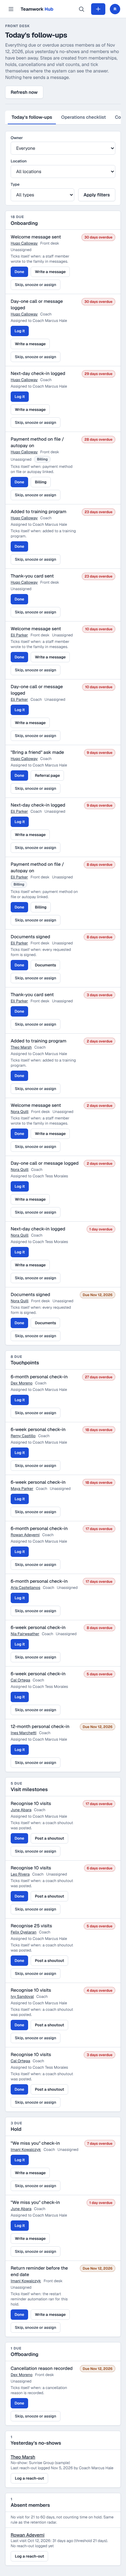
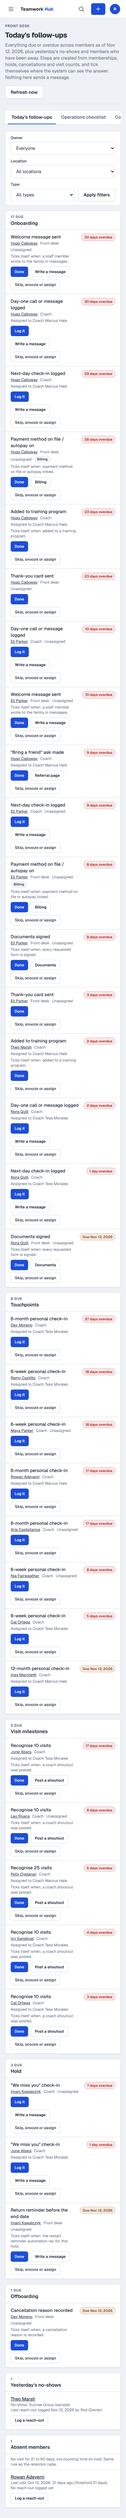
Member journey: docs, FEATURE_MATRIX rows, seed keeps the coach directory test stable, refreshed screenshots
Claude-Session: https://claude.ai/code/session_0111wQ3V8ZifpxxW9YQzxm4u

diff --git a/teamwork-hub/scripts/seed/journey.ts b/teamwork-hub/scripts/seed/journey.ts
@@ -113,7 +113,7 @@ export async function seedJourney(ctx: SeedCtx) {
   for (let d = -38; d <= -2; d += 3) await book(ivy.athleteId, d, "attended");
   await book(ivy.athleteId, 1, "booked");
   await signForm(ivy);
-  await tx.insert(coachAssignments).values({ orgId, coachUserId: ctx.users.marcus, athleteId: ivy.athleteId });
+  await tx.insert(coachAssignments).values({ orgId, coachUserId: ctx.users.tess, athleteId: ivy.athleteId });
 
   // 4. Six-week check-in five days overdue.
   const cal = await member("cal", "Cal", "Ortega", 47);
@@ -130,7 +130,7 @@ export async function seedJourney(ctx: SeedCtx) {
   await book(remy.athleteId, 1, "booked");
   await signForm(remy);
   await card(remy.payerId);
-  await tx.insert(coachAssignments).values({ orgId, coachUserId: ctx.users.marcus, athleteId: remy.athleteId });
+  await tx.insert(coachAssignments).values({ orgId, coachUserId: ctx.users.tess, athleteId: remy.athleteId });
   await tx.insert(sessionFeedback).values({ orgId, bookingId: lastRemy!.booking.id, sessionId: lastRemy!.session.id, athleteId: remy.athleteId, rating: 5, submittedByUserId: ctx.users.alex, submittedByRole: "guardian", createdAt: at(-3, "19:00"), isDemo: true });
 
   // 6. Twenty-fifth visit eight days ago, already recognised with a shoutout.
@@ -145,12 +145,12 @@ export async function seedJourney(ctx: SeedCtx) {
   const june = await member("june", "June", "Abara", 150, { status: "on_hold" });
   for (let d = -60; d <= -12; d += 4) await book(june.athleteId, d, "attended");
   await tx.insert(membershipHolds).values({ membershipId: june.membershipId, startDate: day(-10), endDate: day(8), reason: "Family travel (sample)", requestedOn: day(-12), requestChannel: "email", createdBy: ctx.users.erin });
-  await tx.insert(coachAssignments).values({ orgId, coachUserId: ctx.users.marcus, athleteId: june.athleteId });
+  await tx.insert(coachAssignments).values({ orgId, coachUserId: ctx.users.tess, athleteId: june.athleteId });
 
   // 8. Cancellation scheduled for ten days from now, no reason recorded yet.
   const dex = await member("dex", "Dex", "Moreno", 210, { cancelAt: day(10) });
   for (let d = -40; d <= -9; d += 5) await book(dex.athleteId, d, "attended");
-  await tx.insert(coachAssignments).values({ orgId, coachUserId: ctx.users.marcus, athleteId: dex.athleteId });
+  await tx.insert(coachAssignments).values({ orgId, coachUserId: ctx.users.tess, athleteId: dex.athleteId });
 
   const ids = [nora, theo, ivy, cal, remy, sage, june, dex].map((m) => m.athleteId);
   await syncJourneys(tx, orgId, { today: T, now, athleteIds: ids });

diff --git a/teamwork-hub/docs/modules/journey.md b/teamwork-hub/docs/modules/journey.md
@@ -1,0 +1,153 @@
+# Member journey
+
+Replaces the spreadsheets of checkboxes: an onboarding checklist per new member, scheduled check-in touchpoints, visit milestones, review and referral asks, a hold checklist, an offboarding checklist, a daily / weekly operations checklist and a per-coach weekly scorecard. Steps are created from real events and tick themselves off where the system already knows the answer.
+
+Code in `src/lib/journey/*.ts`, schema in `src/db/schema/journey.ts`, tests in `tests/journey*.test.ts`, browser test `e2e/journey.spec.ts`, seed `scripts/seed/journey.ts`.
+
+**Nothing in this module sends a message to anyone.** Steps that involve a message link to the normal compose page (`/messages/new?athlete=…`), which stays test-only without a provider. A step is finished by a staff member logging it or by a detectable event.
+
+| Screen | Path | Who |
+|---|---|---|
+| Today's follow-ups (queue, no-shows, absent members) | `/follow-ups`, and a card on the staff and coach dashboards (`/today`) | owner, admin, operations; coaches for assigned athletes only, never billing steps |
+| Journey panel | card "Member journey" on the staff person page (`/people/[personId]`) | same as above |
+| Operations checklist | `/follow-ups/checklist` | all staff (tick); owner, admin edit the list |
+| Coach weekly scorecard | `/follow-ups/scorecard` | coaches and operations see their own; owner, admin see every coach |
+| Journey report | `/follow-ups/report` | owner, admin |
+| Templates, timing, targets, checklist items | Settings → Member journey (`/settings/journey`) | owner, admin |
+| Nightly job | Settings → Scheduled jobs, "Member journey" (`journey.sync.nightly`) | owner, admin |
+
+Capabilities (in `src/lib/authz/policy.ts`): `journey.view` (all staff), `journey.billing_steps` (owner, admin, operations), `journey.report` (owner, admin), `ops_checklist.use` (all staff). Editing templates and the checklist list uses `settings.manage`.
+
+## How it reuses what exists
+
+- **Tasks.** A journey step IS a row in the existing `tasks` table (`source = 'journey'`): status, assignee, due time and completion live there. `journey_steps` (1:1, keyed by the task id) only adds what a plain task cannot hold: the checklist it belongs to, the auto-complete rule, the facility-local due date, snooze date, skip reason, outcome. Skip = the task is `cancelled` with a reason on the step. Journey tasks show on People → Tasks once they have an assignee; the generic "open tasks" list on the person page leaves them out because the journey panel shows them (and a coach must not see the billing ones there).
+- **Milestones.** The "recognise this" step for N visits uses the same task dedupe key as "Create shoutout task" on Milestones this week (`milestone:<athleteId>:sessions:<N>`). Whichever comes first, there is one task: the journey adopts an existing shoutout task, and the card's button becomes a no-op. The step ticks itself when a coach shoutout is posted on or after the day the count was reached, so recognition goes through the existing shoutout → TV board → XP path. The journey adds 10, 500, 750 and 1000 to the counts the dashboard card lists; the card itself is unchanged.
+- **Retention radar.** "Absent members" is the radar's own "No recent visit" signal (so members on hold are skipped and both screens agree). Review asks are held back using the radar's level and its payment signal.
+- **Win-back list.** Completing "Win-back date set" creates a normal task for that date ("Winback outreach: …"), which the existing win-back list shows as the member's last task.
+- **Notes.** Steps that record a conversation, and "Log a reach-out", write a staff note on the person (category `reach_out` or `check_in`, visibility "assigned coaches").
+- **Settings.** Templates, timing numbers and scorecard targets are stored in `organizations.settings.journey`; every save is audited.
+
+## Templates
+
+Six checklists. Every step has a name, an owner role (Owner, Front desk, Coach), a due offset (days, weeks or calendar months; hold steps may count from the hold's start, midpoint or end), an optional auto-complete rule from the fixed list below, an "in use" switch and a "billing step" flag. Steps can be added. **Every default is a starting point and is labelled "Default" on the settings page until edited**; none is a Teamwork policy. Journeys already under way keep the steps they began with.
+
+| Checklist | Starts when | Default steps (auto = ticks itself) |
+|---|---|---|
+| Onboarding | a membership or trial begins (within the last `backfillDays`) | welcome message sent (auto: staff wrote in Messages), documents signed (auto), payment method on file / autopay on (auto, billing), first session booked (auto), first session attended (auto), assigned coach set (auto), added to training program (auto), day-one call or message logged, next-day check-in logged, thank-you card sent, "bring a friend" ask made (links to the referral page) |
+| Touchpoints | the start of the member's current stint | personal check-ins at 6 weeks, 6, 12, 18 and 24 months; a goal review at 12 weeks (links to the athlete's performance page, where staff manage goals). Each needs a short note |
+| Visit milestones | a visit count is reached | "Recognise N visits" for 10, 25, 50, 100, 250, 500, 750, 1000 (auto: a shoutout is posted) |
+| Review and referral asks | a positive moment (see below) | ask for a review (asked / reviewed / declined), ask for a referral (asked / referred / declined). No review site is contacted |
+| Hold | a hold is recorded (running, or starting within the look-ahead) | reason recorded (auto), return date set (auto), "we miss you" check-in at the midpoint, return reminder 7 days before the end (auto: the existing `membership_restart_upcoming` automation ran for this hold) |
+| Offboarding | a cancellation is processed (cancelled, or a cancel date is set, on a regular plan, and nothing else continues) | reason recorded (auto), save conversation logged, final bill settled (auto, billing), removed from training program and groups (auto), thank-you sent, exit survey answered, win-back date set |
+
+### Auto-complete rules
+
+| Rule | True when |
+|---|---|
+| A staff member wrote to the family in Messages | a staff-written message (not an internal note, automation or campaign) in a thread about the athlete since the journey began |
+| Every requested form is signed | at least one form request is completed and none is pending |
+| Payment method on file or autopay linked | the payer has a stored payment method, or the membership has a provider subscription |
+| A session is booked / was attended | a live booking / an attended booking for a session from two weeks before the journey start (a trial session before the start date counts) |
+| An assigned coach is set | a current coach assignment, direct or through a group |
+| Added to a training program | an active program assignment, direct or through a group |
+| A coach shoutout was posted | a shoutout that is still posted, dated on or after the day the count was reached |
+| The hold has a reason / a return date | the hold row has them |
+| The restart reminder automation ran | a finished `automation.dispatch` job for this hold |
+| A cancellation reason is recorded | the membership's cancel reason, or a "lost" entry with a reason in the save log |
+| No open invoice is left on the membership | no invoice with status open for that membership |
+| No active program and no group membership | both are gone |
+
+An automatic tick is stamped with the time of the event when the system knows it (for example the session's start), has no "completed by", is marked "Ticked automatically", and writes an audit event (`journey.step_auto_complete`, actor system). Staff can still tick any step by hand.
+
+Not automatic, and why: the **exit survey** is logged by staff with a note. The session-feedback machinery is one response per attended booking, so it does not fit a survey for someone who has left; no survey form is sent.
+
+## Generation
+
+`syncJourneys(tx, orgId, { today, now, athleteIds? })` in `src/lib/journey/sync.ts` is the only generator. It runs:
+
+- nightly as `journey.sync.nightly` (registered in `src/lib/scheduled/jobs.ts`, one job per organization and local date, Run now on Settings → Scheduled jobs);
+- when `/follow-ups` is opened and from its "Refresh now" button (whole organization);
+- when a person page is opened (that athlete only).
+
+So nothing waits for a worker (none is deployed yet).
+
+**Idempotent.** Journeys are unique per `(org, anchor key)` (`onboarding:<membershipId>`, `hold:<holdId>`, `offboarding:<membershipId>`, `touchpoints:<membershipId>`, `visit_milestones:<athleteId>`, `review_referral:<athleteId>`), steps per `(journey, step key)`, tasks per `(org, dedupe key)`, and a pass holds a per-organization advisory lock. Running it twice, or three at once, creates nothing new (tested).
+
+**No backlog.** Nothing whose date is more than `backfillDays` (default 30) in the past is generated, so a three-year member does not get an onboarding checklist or five overdue touchpoints on the first run. The cost: if nothing runs the generator for longer than that, steps that fell in the gap are never created and are not in the report.
+
+**Stints.** Touchpoints count from the membership that began the member's current stint. A plan change is the same stint; coming back more than 30 days after the last membership ended starts a new one (onboarding again, touchpoints restart).
+
+**Touchpoints are created `lookaheadDays` (default 14) before they are due.** Later ones are shown under "Upcoming touchpoints" on the profile panel, computed from the template and not stored.
+
+**Closing.** If a hold is removed, or a cancellation is withdrawn, the checklist is closed and its open steps are cancelled with that reason. If a hold's dates change, its open steps follow. A one-off checklist is marked completed when no step is open; its completion time is when the last step was finished or skipped.
+
+Coach-owned steps are assigned to the athlete's directly assigned coach when there is one; everything else starts unassigned.
+
+## Dates, and what a hold does to touchpoints
+
+All due dates are facility-local calendar dates (`journey_steps.due_on`); the task's `due_at` is the end of that local day. "Today" is the facility's date, not UTC. Months are calendar months clamped to the end of the month (Aug 31 + 6 months = Feb 28 or 29); weeks and days are plain day counts.
+
+**Decision: touchpoints do not pause for a hold, but they are not asked for during one.** Tenure keeps counting through a hold, as membership anniversaries already do, so a 30-day hold does not push every later check-in out by 30 days. A check-in whose date falls inside a hold moves to `holdGraceDays` (default 7) after that hold ends, and moves back if the hold is removed; the original date is kept and shown ("Moved from … for a hold"). The hold checklist has its own mid-hold check-in. Onboarding dates do not move.
+
+## Review and referral asks
+
+Suggested **once per member**, when both are true: a positive moment in the last `positiveMomentDays` (default 14), meaning a visit milestone was reached or a 5-star session rating was left; and the member is not at risk on the retention radar and not past due (membership status, a failed payment, or an overdue invoice). If the member is at risk or past due at that moment nothing is created; if they recover while the moment is still recent the ask appears then. An ask that is already open is hidden from the queue for as long as the member is at risk or past due, and returns afterwards.
+
+## Queue, panel and actions
+
+- **Queue**: every open step due today or earlier that is not snoozed or held back, grouped by checklist, filterable by owner (me, unassigned, a role, a staff member), location (a membership or its product covers the location) and type. Beside it: yesterday's no-shows and absent members, each with "Log a reach-out".
+- **Absent window**: at least `attendanceGapDays` from the membership policy (21) and at most `absentMaxDays` (default 60) without a visit, not counting time on hold.
+- **Actions**: one-tap Done (a short form instead when the step records a conversation, an outcome or a date), skip with a reason (required), snooze 1 to 60 days (hides the step; the due date does not change, so it still counts as late), assign. Each action re-checks organization, coach scope and billing visibility on the server and writes an audit event (`journey.step_complete`, `journey.step_skip`, `journey.step_snooze`, `journey.step_assign`, `journey.reach_out_log`).
+- **Coaches** see only steps for athletes assigned to them (directly or through a group) and never steps flagged billing. A billing step cannot be assigned to a coach; a step cannot be assigned to a coach who is not assigned to the athlete; a coach can only assign a step to themselves.
+
+## Operations checklist
+
+`ops_checklist_items` (section opening / closing / cleaning / weekly, label, order, optional location; no location = every location) and `ops_checklist_ticks` (item, local date, who). One tick per item per day; weekly items are stored on the Monday and ticked once per week. Staff can tick today or yesterday (a closing list is often finished after midnight). Only the person who ticked, or an owner or admin, can untick. The month grid shows daily items done out of the total per day, and weekly items per week. Kept small on purpose: no per-shift assignment, no photos, no history of list edits beyond the audit log. The month grid uses the items that are active now, so past days are not re-based when the list changes. An item for "every location" is ticked once for all locations. The sample starter list is invented wording and is only added when an owner or admin asks for it.
+
+## Coach weekly scorecard
+
+Week = Monday to Sunday, facility time. Computed, never stored:
+
+| Number | How |
+|---|---|
+| Session utilisation | live bookings (booked, attended, no-show) ÷ capacity over the coach's non-cancelled sessions that started in the week |
+| Client reach-outs logged | staff notes of category `reach_out` or `check_in` the coach wrote in the week |
+| Client meetings / assessments held | the coach's sessions of service kind Assessment in the week with at least one attended booking |
+| Touchpoints on time | touchpoint steps due in the week that are assigned to the coach or were completed by them: done on or before the due date ÷ all that were due (skipped ones excluded) |
+
+A rate with nothing to divide by is shown as "—", not 0. Targets are organization-wide and editable (defaults 70%, 10, 3, 90%: starting points, not standards). The reflection (what went well, what is stuck, what help is needed) is stored in `coach_reflections`, one per coach per week; a coach writes only their own; owner and admin can read it; the text is not copied into the audit log.
+
+## Reporting
+
+`src/lib/journey/reports.ts`, by facility-local month, last six months:
+
+- `onboardingCompletionByMonth(tx, orgId, { today, tz, months })`: started, completed, closed, in progress, completion rate, average days to complete, by the month onboarding started.
+- `touchpointTimelinessByMonth(...)`: due, on time, done late, still overdue, skipped, on-time percent, by the month due.
+- `milestoneRecognitionByMonth(...)`: reached, recognised, missed (skipped, or open after the due date), waiting, recognised percent, by the month due.
+- `journeyCompletionReport(tx, viewer)`: the three together, limited to `journey.report`.
+
+The three `...ByMonth` functions take an organization id and no viewer, so another page (for example the owner scoreboard being built separately at `/scoreboard`, which this module does not touch) can call them after its own permission check. `coachScorecards(tx, viewer, { weekStart })` is available the same way for owner and admin viewers.
+
+## Assumptions to confirm
+
+- "Absent in the retention module's actionable window" was read as the radar's "No recent visit" signal with an upper bound of 60 days (editable). There is no window by that name in the retention module.
+- "The existing hold reminder" was read as the `membership_restart_upcoming` automation. If that rule is not enabled the return-reminder step simply stays open for staff.
+- "Client meetings / assessments" counts sessions of kind Assessment only. Private sessions are not counted as meetings.
+- Operations (front desk) can see and act on billing steps, cannot open the journey report, and sees only their own scorecard.
+- The owner role label "Front desk" maps to the operations role. Owner role on a step is a label and a filter; it does not restrict who may tick the step beyond the scope rules above.
+- A scheduled cancellation starts offboarding on the day it was scheduled (the first cancel event), not on the last day.
+- "Final bill settled" is true as soon as no open invoice is attached to that membership, which can be immediately.
+- Scorecard targets are the same for every coach.
+
+## Not done
+
+- No per-coach targets, no scorecard history export, no CSV for the journey report.
+- No exit survey form sent to families; it is a staff-logged step.
+- Template edits do not change journeys already under way, and there is no "add this new step to everyone" action.
+- Location filter on the queue is by membership / product location scope; an athlete with no location scope matches every location.
+- The dashboard card reads the queue without running the generator; the queue page and the person page run it.
+- No worker is deployed, so the nightly job has only run in tests and through Run now.
+
+## Demo data
+
+`scripts/seed/journey.ts` adds eight synthetic members with invented names (brand new; nearly through onboarding with a no-show yesterday; a six-week check-in due in three days; one five days overdue; a tenth visit waiting to be recognised plus a 5-star rating; a 25th visit already recognised; on hold; cancellation scheduled), runs the real generator for those members only, ticks a few steps as staff, and adds a sample operations checklist with ticks and one coach reflection. Opening `/follow-ups` then generates for the rest of the demo organization.

diff --git a/teamwork-hub/FEATURE_MATRIX.md b/teamwork-hub/FEATURE_MATRIX.md
@@ -175,6 +175,22 @@ Security review: see `docs/SECURITY-REVIEW.md` (10 findings fixed with regressio
 | Low rating → staff task "Follow up on session feedback" (no comment, rating or name in the task; not linked to the athlete unless shared with the coach) | verified locally | `retention-feedback.test.ts` | Unshared follow-ups go to the first owner login |
 | Milestones this week on the staff dashboard (anniversaries, 25/50/100/250 sessions, birthdays staff-only, first 30 days) with "Create shoutout task"; facility-timezone math | verified locally | `retention-milestones-reports.test.ts` | Shown on the owner/admin/operations dashboard only; no automatic messages by design |
 | Winback list (`/people/retention/winback`): ended in the last 12 months with end reason, last plan, tenure; follow-up task only | verified locally | `retention-milestones-reports.test.ts` | End reason is only as good as the cancellation reason or logged loss |
+## Member journey (replaces the coaching program's checkbox spreadsheets; see `docs/modules/journey.md`)
+
+| Feature | Status | Test evidence | Gaps |
+|---|---|---|---|
+| Journey templates (Settings → Member journey): onboarding, touchpoints, visit milestones, review and referral asks, hold, offboarding; each step has a name, owner role, due offset, optional auto-complete rule from a fixed list; editable, defaults labelled "Default"; stored in `organizations.settings.journey`, audited | verified locally | `journey-pure.test.ts`, `journey.test.ts` (edit, custom step, reset, coach refused), e2e `journey.spec.ts`, a11y on `/settings/journey` | Edits apply to journeys that start afterwards. Defaults are starting points, not policy |
+| Generator `syncJourneys`: steps created from memberships, holds, cancellations, visit counts and 5-star feedback; idempotent (unique anchor, step and task keys plus an advisory lock); nightly job `journey.sync.nightly` with Run now; also run by the follow-ups page and the profile panel | verified locally | `journey.test.ts` (twice and three at once create nothing; job registered; long-standing member gets no backlog; nothing sent), `scheduled-jobs.test.ts` | No worker deployed. Nothing older than 30 days (editable) is generated, so a gap longer than that loses steps |
+| Auto-completion for 14 detectable events (staff message, documents signed, payment method, first session booked / attended, coach assigned, program assigned, shoutout posted, hold reason / return date / restart reminder, cancel reason, final bill settled, removed from program and groups), audited as system | verified locally | `journey-pure.test.ts` (every rule), `journey.test.ts` (each against real rows) | Exit survey is staff-logged (session feedback is per booking and does not fit). The hold reminder ticks only if the restart automation rule is enabled |
+| Journey steps are rows in the existing `tasks` table with a 1:1 `journey_steps` extension; visit-milestone steps share the dedupe key of the Milestones "Create shoutout task" (adopted, never duplicated); win-back step creates the task the win-back list shows | verified locally | `journey.test.ts` | Journey tasks appear on People → Tasks only once assigned |
+| Due dates in facility-local dates (calendar months clamped, DST-safe); a touchpoint that falls inside a hold moves to 7 days after the hold ends and back if the hold is removed; tenure is not stretched by a hold | verified locally | `journey-pure.test.ts`, `journey.test.ts` (UTC vs facility day, hold added later, member already on hold) | Decision documented in `docs/modules/journey.md`; grace days editable |
+| Review and referral asks: suggested once after a visit milestone or 5-star rating; never while at risk or past due; an open ask is hidden while the member is at risk or past due; asked / reviewed / referred / declined recorded | verified locally | `journey.test.ts` (healthy, past due, at risk, becomes past due later, outcomes) | No review-site integration (by design) |
+| Per-member journey panel on the staff person page: onboarding progress, upcoming touchpoints, milestones and whether each was recognised; one-tap complete, skip with reason, snooze, assign; all audited | verified locally | `journey.test.ts`, e2e `journey.spec.ts` (desktop + 390px), a11y person detail page | Opening the page runs the generator for that athlete (a write on a page view, as engagement does) |
+| Today's follow-ups (`/follow-ups` and a dashboard card): due and overdue steps grouped by type, filter by owner, location and type, assignable; yesterday's no-shows and absent members with "Log a reach-out" | verified locally | `journey.test.ts` (scope per role, billing steps hidden from coaches, other org, assignment rules, snooze, no-show and absent lists), e2e, a11y, CSP sweep (owner 150 pages, coach 125, desktop) | Absent window = radar "No recent visit" up to 60 days (assumption). Queue capped at 500 rows |
+| Operations checklist (`/follow-ups/checklist`): opening / closing / cleaning / weekly items per location, ticked per facility-local day by any staff, month grid | verified locally | `journey-ops.test.ts`, e2e, a11y | Deliberately small. Month grid uses the currently active items. Sample list is invented wording |
+| Coach weekly scorecard (`/follow-ups/scorecard`): utilisation, reach-outs logged, assessments held, touchpoints on time against editable targets, plus a weekly reflection; coaches see their own, owner / admin see all | verified locally | `journey-ops.test.ts`, e2e, a11y | Targets are organization-wide. "Meetings" counts sessions of kind Assessment only |
+| Journey report (`/follow-ups/report`, owner / admin): onboarding completion rate and time, touchpoints on time vs late, milestones recognised vs missed, by month; query functions `onboardingCompletionByMonth`, `touchpointTimelinessByMonth`, `milestoneRecognitionByMonth` usable by another page | verified locally | `journey.test.ts` | No CSV. Not wired into `/scoreboard` (built separately) |
+
 ## Athlete engagement (proposed Teamwork functionality, built; see `docs/modules/engagement.md`)
 
 | Feature | Status | Test evidence | Gaps |

diff --git a/teamwork-hub/docs/modules/scheduled-jobs.md b/teamwork-hub/docs/modules/scheduled-jobs.md
@@ -12,6 +12,7 @@ Module `scheduled`. Code in `src/lib/scheduled/jobs.ts`, handlers registered in
 | Team challenge completions and challenge badges | Athlete Home, `/leaderboards` | `community.challenges.nightly` | `syncChallengeCompletions` |
 | Auto-achieved goals, XP ledger, badges | Athlete Home, `/goals`, performance page | `engagement.refresh.nightly` | `evaluateGoals`, `syncXp`, `syncBadges` (what `refreshEngagement` does) |
 | Monthly recap finalization | first view of a closed month | `recap.monthly` (already existed, daily) | `runMonthlyRecaps` |
+| Member journey: checklists started from memberships, holds, cancellations and visit counts; detectable steps ticked | `/follow-ups`, the journey panel on a person page | `journey.sync.nightly` | `syncJourneys` (see `docs/modules/journey.md`) |
 
 Checked and not scheduled, because nothing is stored:
 - **Streaks**: computed from attendance each time they are shown.

diff --git a/teamwork-hub/docs/modules/retention.md b/teamwork-hub/docs/modules/retention.md
@@ -84,6 +84,8 @@ Computed for active members in the current facility-local week (Monday to Sunday
 
 The only action is "Create shoutout task" (one per athlete and milestone). No automatic messages.
 
+The member journey (`docs/modules/journey.md`) creates its "Recognise N visits" step with the same task key, so a milestone never has two tasks, and it extends the visit counts to 10, 500, 750 and 1000 on its own screens.
+
 ## Winback list
 
 Athletes with no membership now whose most recent membership ended in the last 365 days, with the end reason (from the save log, else the cancellation reason, else the athlete record, else "Not recorded"), last plan and tenure. The only action is "Create follow-up task".
